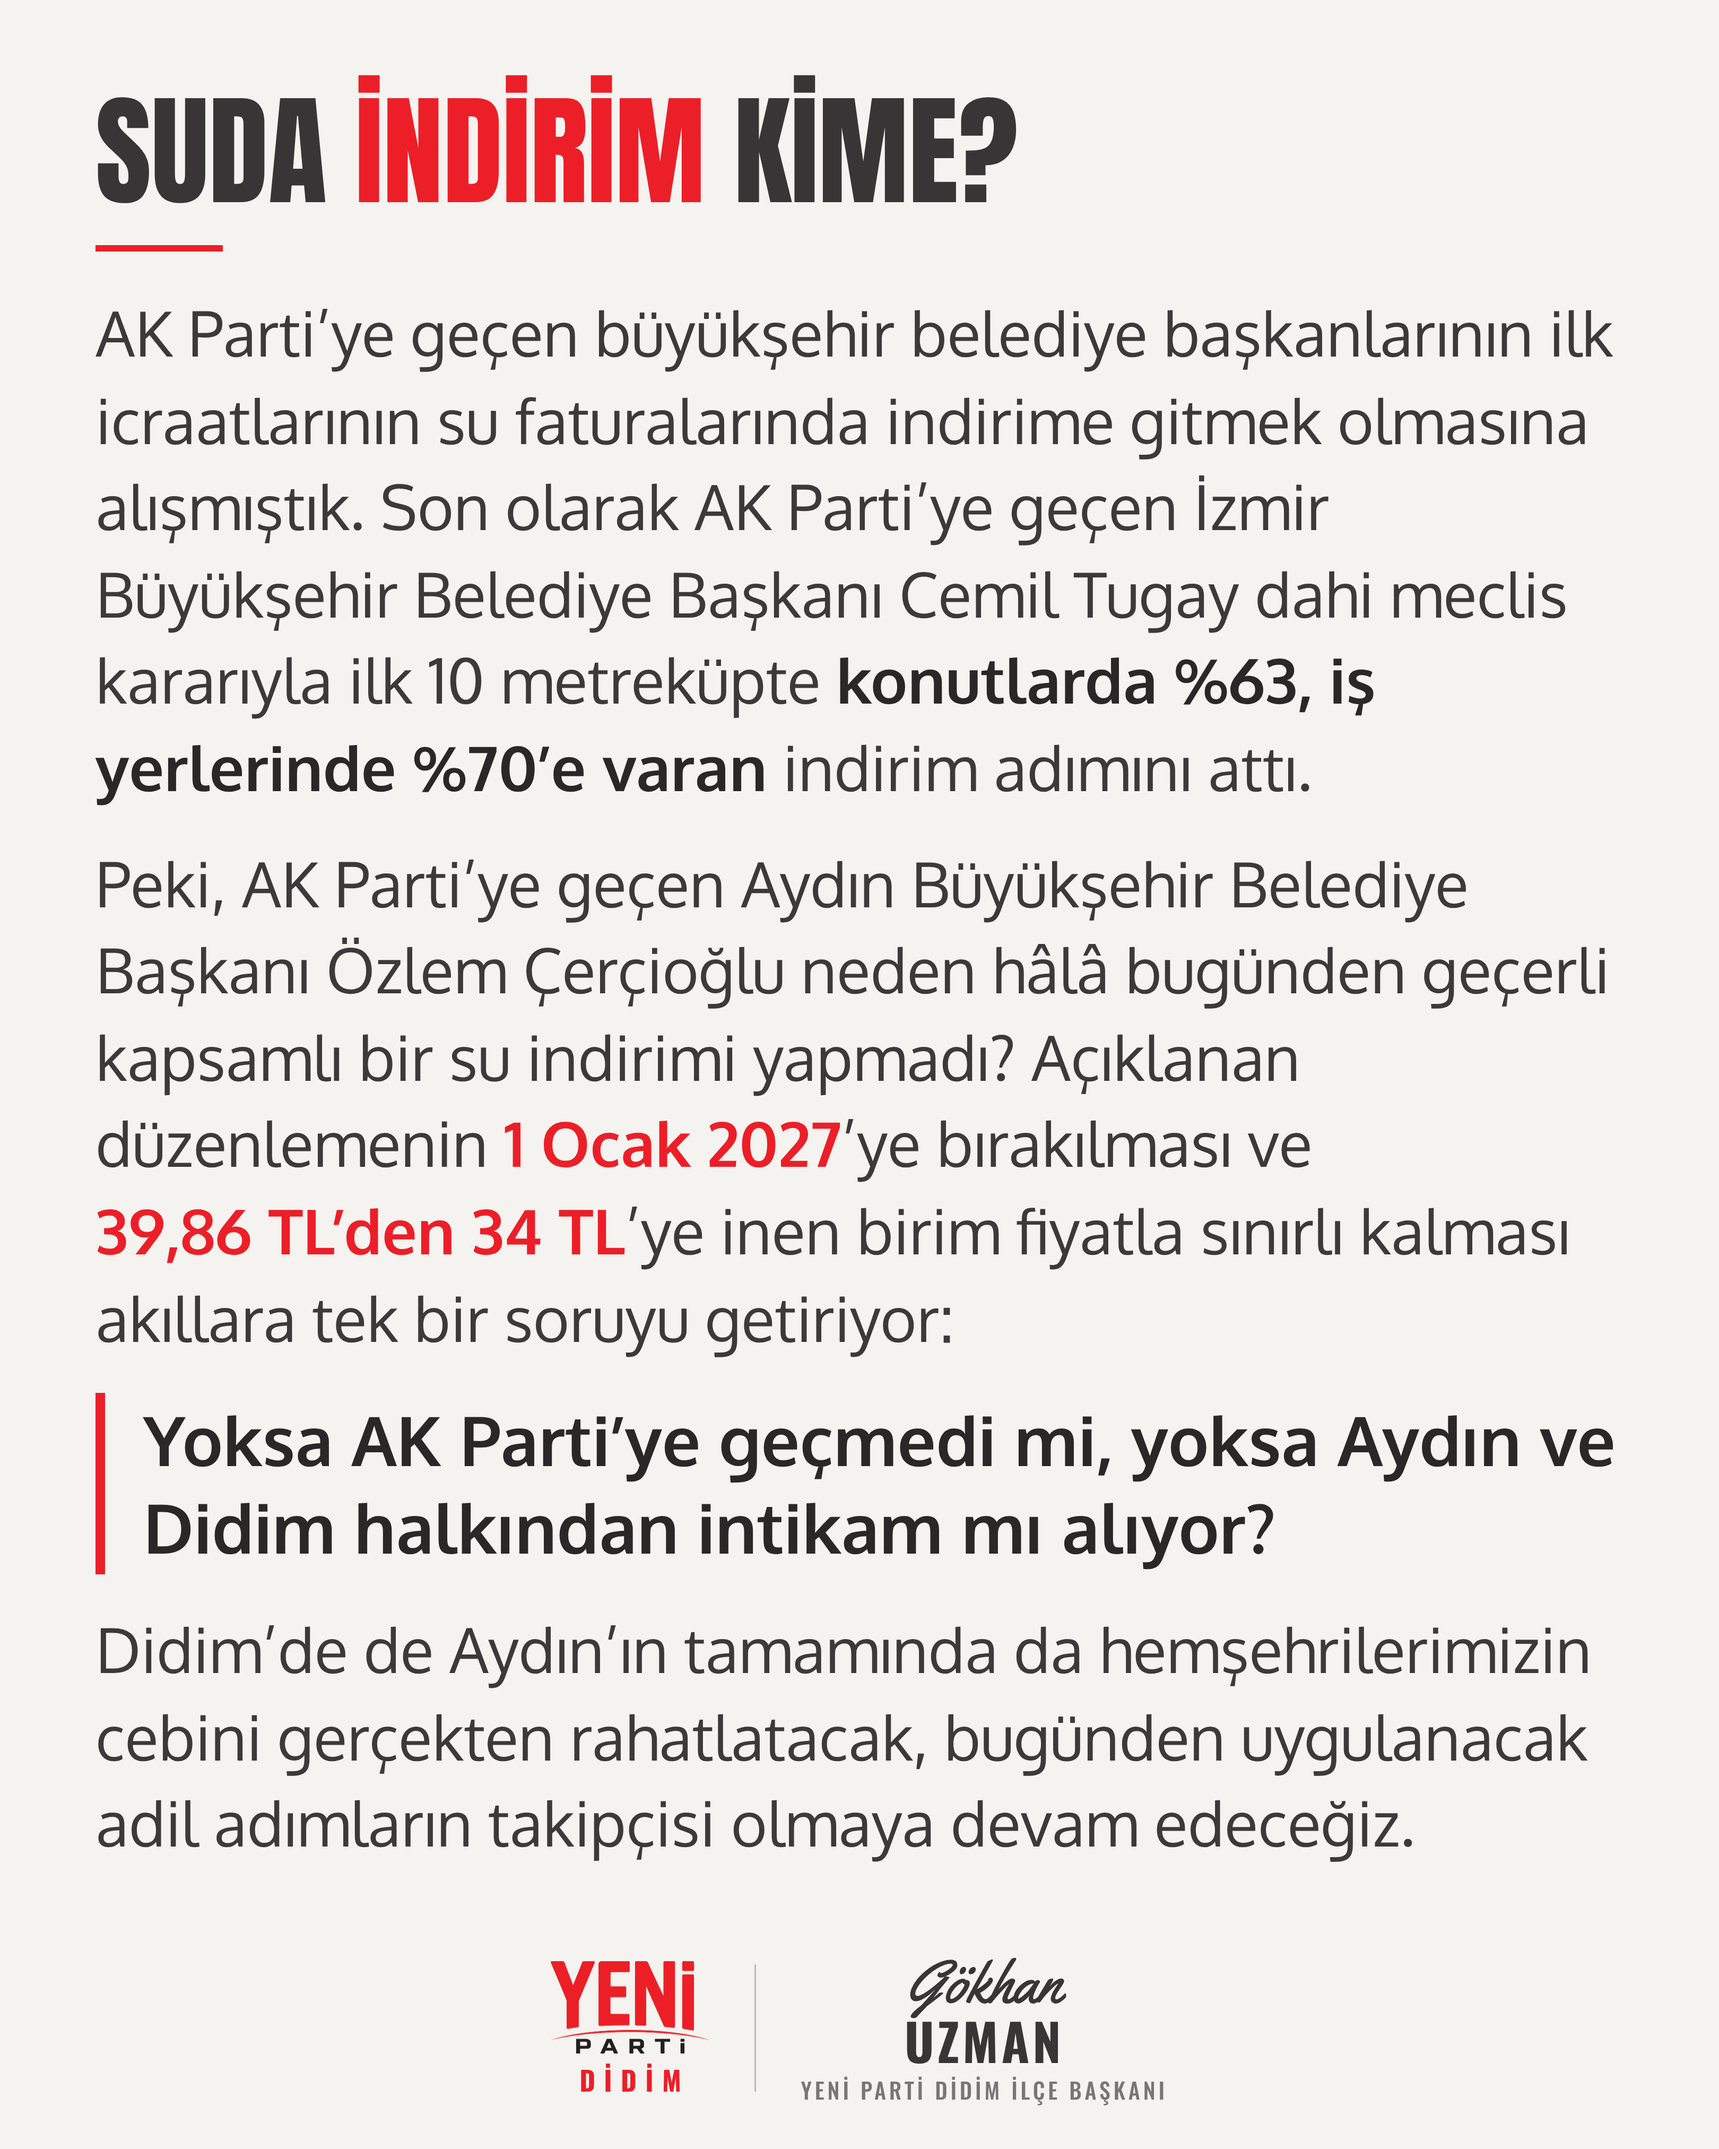
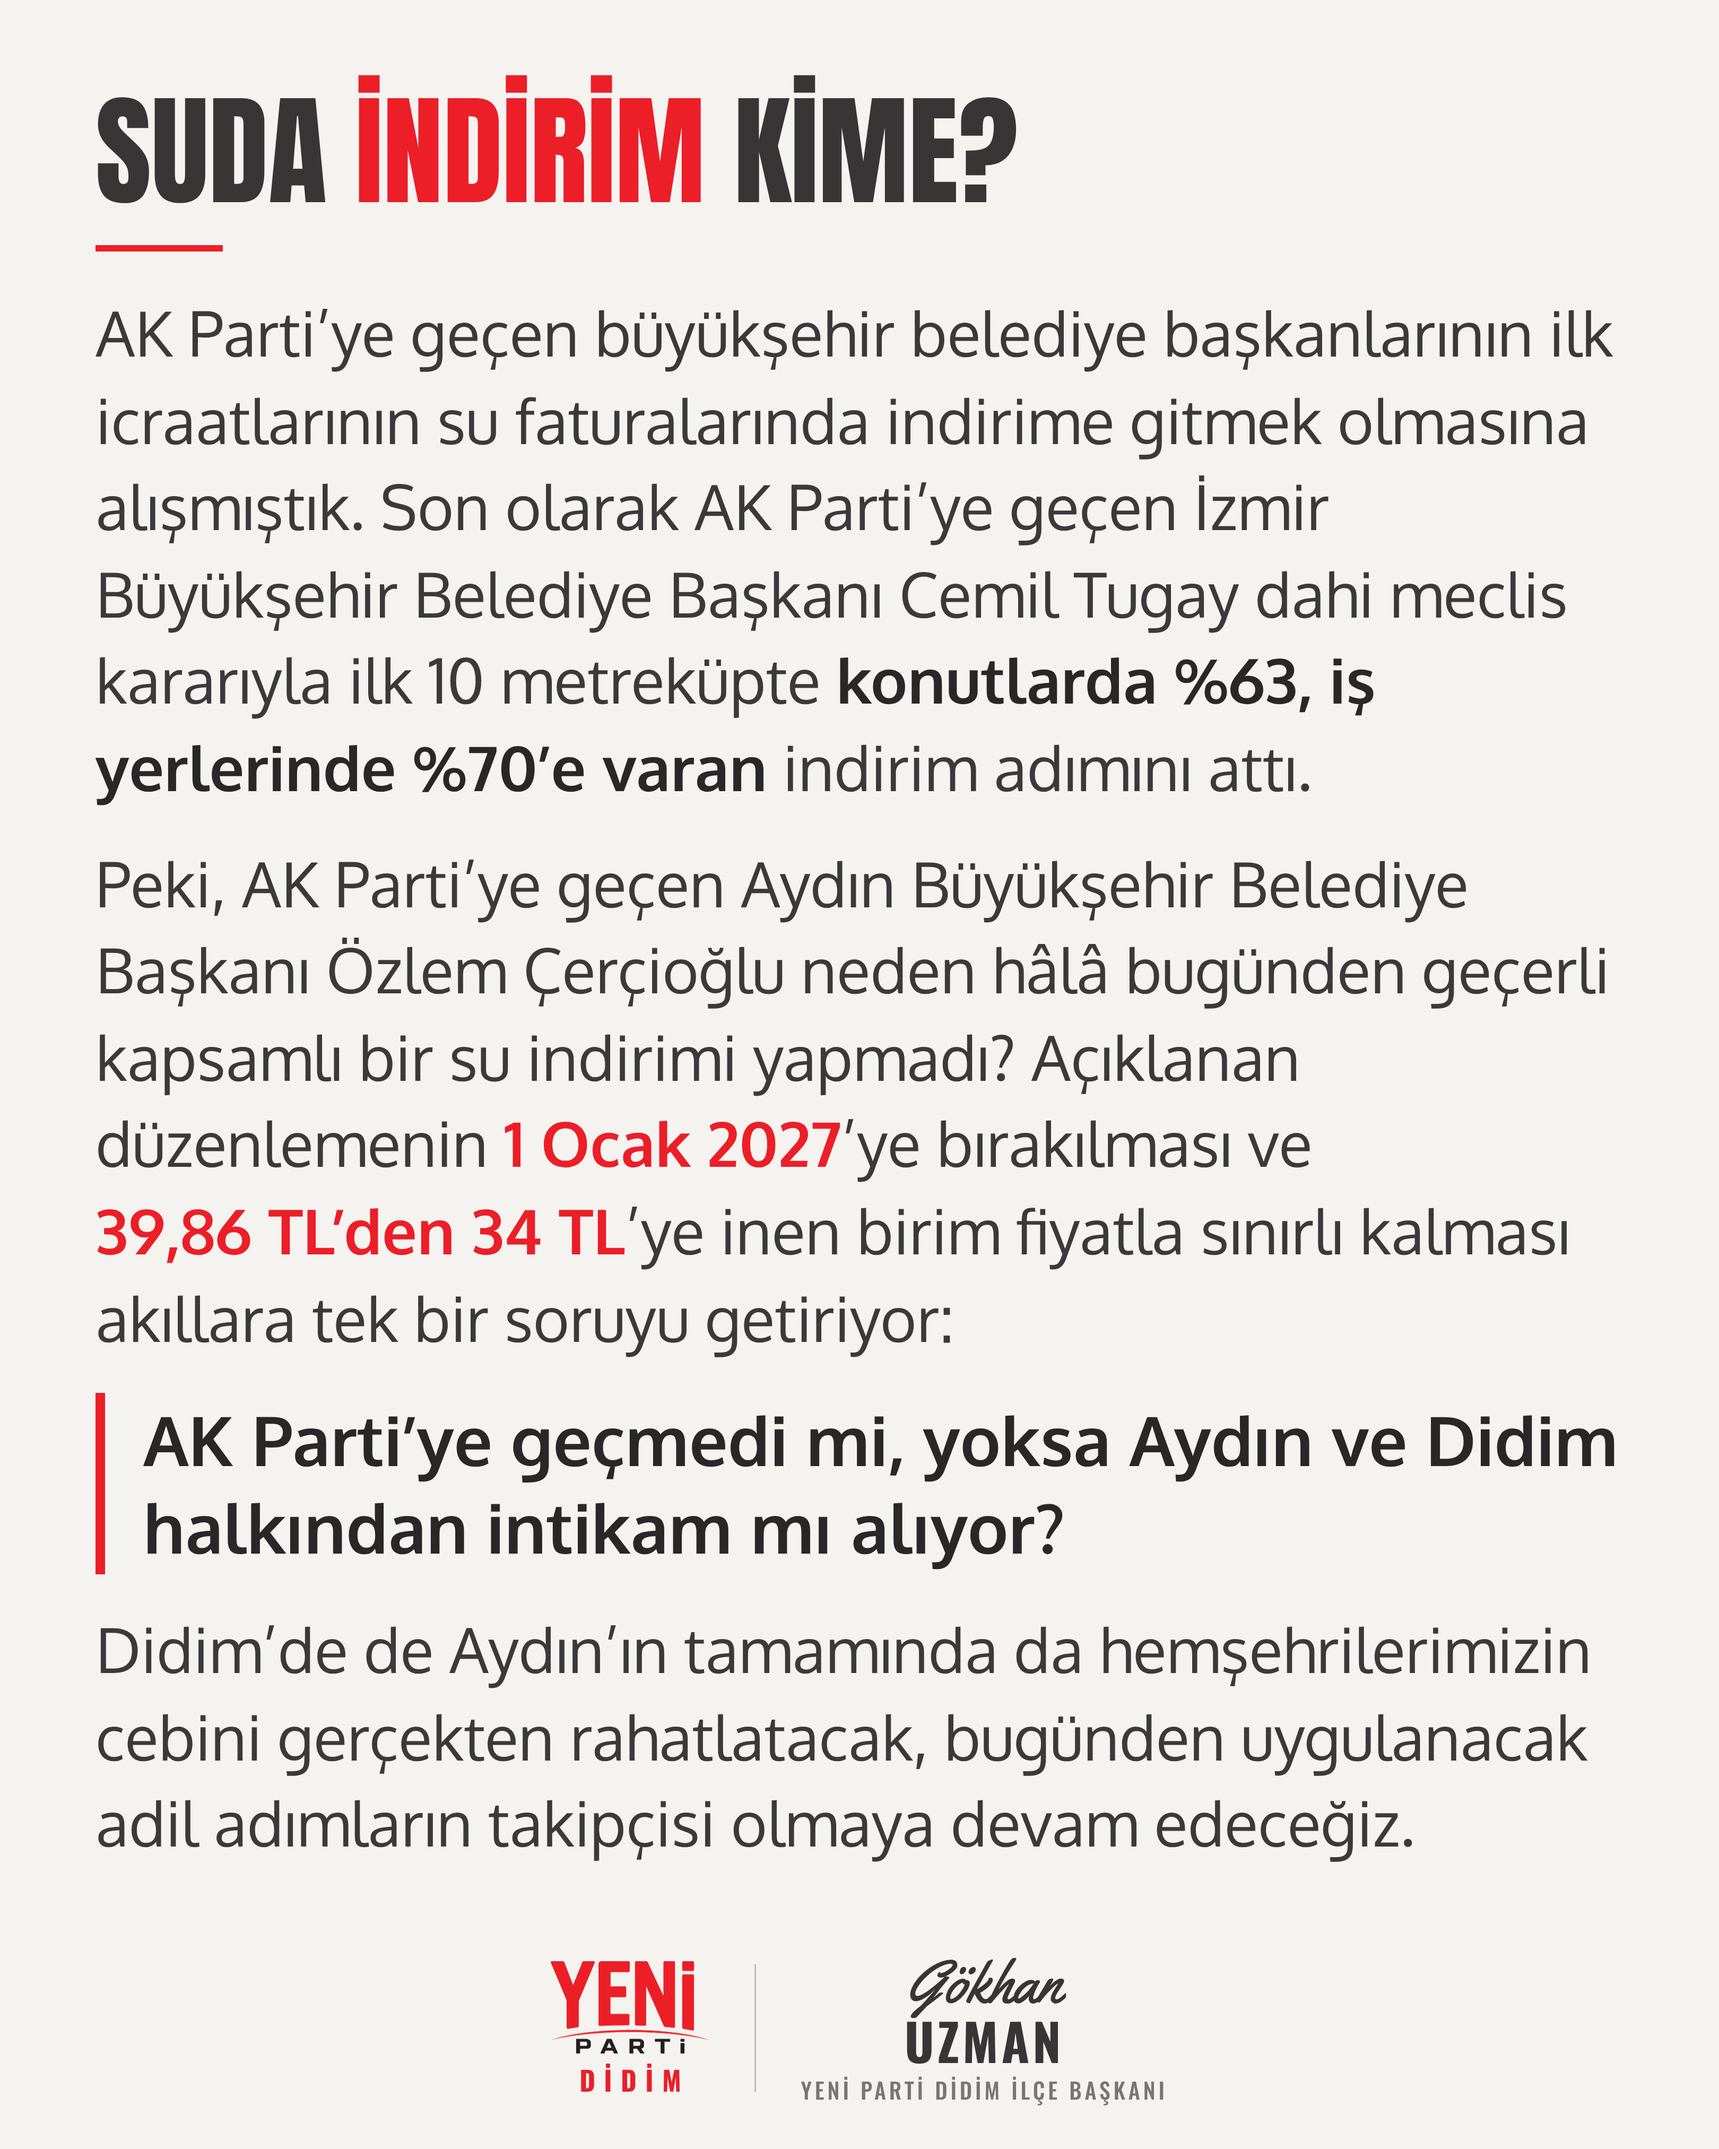
Su indirimi: çift 'yoksa' düzeltildi
Claude-Session: https://claude.ai/code/session_01SatttGbgBLoCnk9KGLypWv

Changed region(s): [[0.0623, 0.6533, 0.9352, 0.7467]]

diff --git a/tasarim/kisisel/su-indirimi/post-metin.html b/tasarim/kisisel/su-indirimi/post-metin.html
@@ -31,7 +31,7 @@ html,body{margin:0;width:1080px;height:1350px;overflow:hidden;background:#F5F3EF
 <div class="t">
 <p>AK Parti’ye geçen büyükşehir belediye başkanlarının ilk icraatlarının su faturalarında indirime gitmek olmasına alışmıştık. Son olarak AK Parti’ye geçen İzmir Büyükşehir Belediye Başkanı Cemil Tugay dahi meclis kararıyla ilk 10 metreküpte <b>konutlarda %63, iş yerlerinde %70’e varan</b> indirim adımını attı.</p>
 <p>Peki, AK Parti’ye geçen Aydın Büyükşehir Belediye Başkanı Özlem Çerçioğlu neden hâlâ bugünden geçerli kapsamlı bir su indirimi yapmadı? Açıklanan düzenlemenin <em>1 Ocak 2027</em>’ye bırakılması ve <em>39,86 TL’den 34 TL</em>’ye inen birim fiyatla sınırlı kalması akıllara tek bir soruyu getiriyor:</p>
-<div class="q">Yoksa AK Parti’ye geçmedi mi, yoksa Aydın ve Didim halkından intikam mı alıyor?</div>
+<div class="q">AK Parti’ye geçmedi mi, yoksa Aydın ve Didim halkından intikam mı alıyor?</div>
 <p>Didim’de de Aydın’ın tamamında da hemşehrilerimizin cebini gerçekten rahatlatacak, bugünden uygulanacak adil adımların takipçisi olmaya devam edeceğiz.</p>
 </div></div>
 <div class="imza"><div class="lg"><img src="yp.png"><span>DİDİM</span></div><span class="ay"></span><div class="ns"><span class="g">Gökhan</span><span class="u">UZMAN</span><span class="tt">YENİ PARTİ DİDİM İLÇE BAŞKANI</span></div></div>
